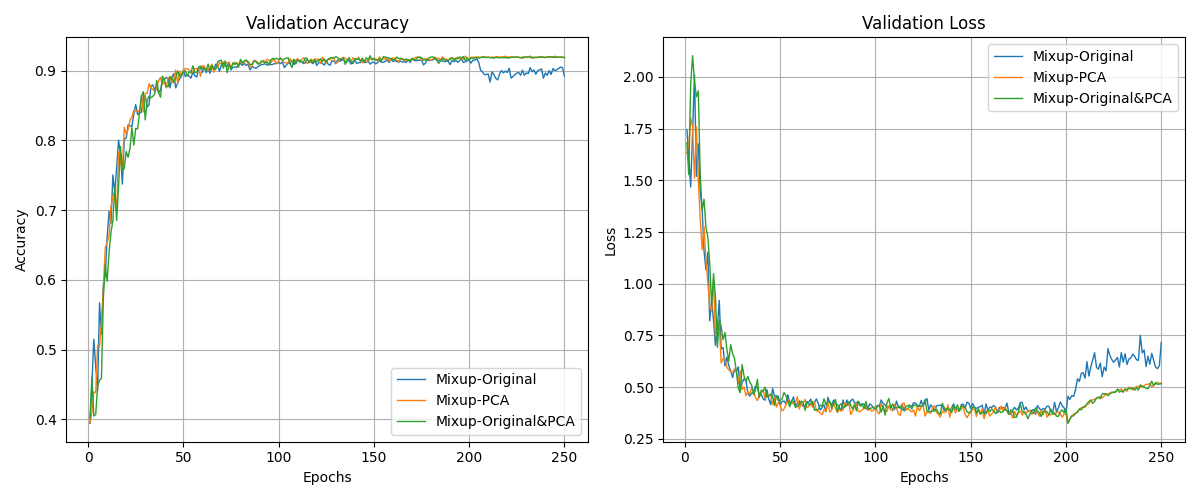
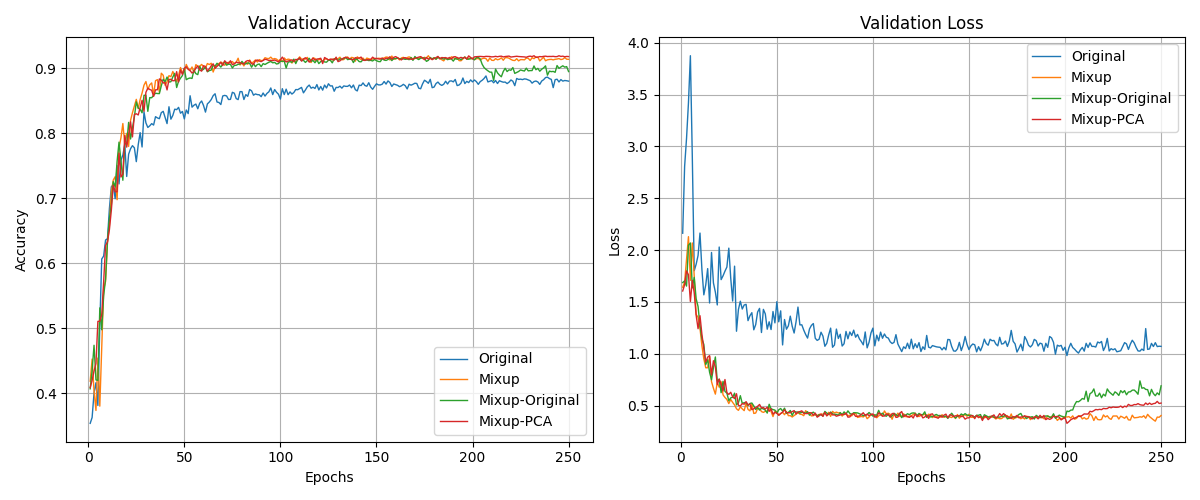
clone to synapse

diff --git a/result.py b/result.py
@@ -4,17 +4,17 @@ import numpy as np
 import matplotlib.pyplot as plt
 
 def main():
-    iteration     = 3
+    iteration     = 4
     data_type     = "cifar10"
     epochs        = 250
     model_type    = "wide_resnet_28_10"
     augmentations = [
-        # "Original", 
-        # "Mixup", 
+        "Original", 
+        "Mixup", 
         "Mixup-Original", 
         "Mixup-PCA", 
 
-        "Mixup-Original&PCA",
+        # "Mixup-Original&PCA",
         # "Mixup-PCA-Comulative",
     ]
     
